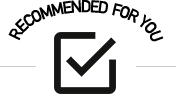
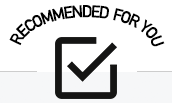
update follow list

diff --git a/public/assets/css/follow_list.css b/public/assets/css/follow_list.css
@@ -49,7 +49,7 @@
       position: relative; }
       .page-follow-list .section-foot-slide .intro img {
         position: absolute;
-        top: -86px;
+        top: -90.5px;
         width: 120px;
         height: auto; }
       .page-follow-list .section-foot-slide .intro h3 {

diff --git a/public/assets/js/follow_list.js b/public/assets/js/follow_list.js
@@ -3,7 +3,7 @@ $(document).ready(function () {
         slidesToShow: 3,
         slidesToScroll: 1,
         speed: 500,
-        // autoplay: true,
+        autoplay: true,
         arrows: false,
         dotsClass: 'slick-dots-slide'
     });

diff --git a/public/sass/follow_list.scss b/public/sass/follow_list.scss
@@ -63,7 +63,7 @@
 
       img {
         position: absolute;
-        top: -86px;
+        top: -90.5px;
         width: 120px;
         height: auto;
       }
